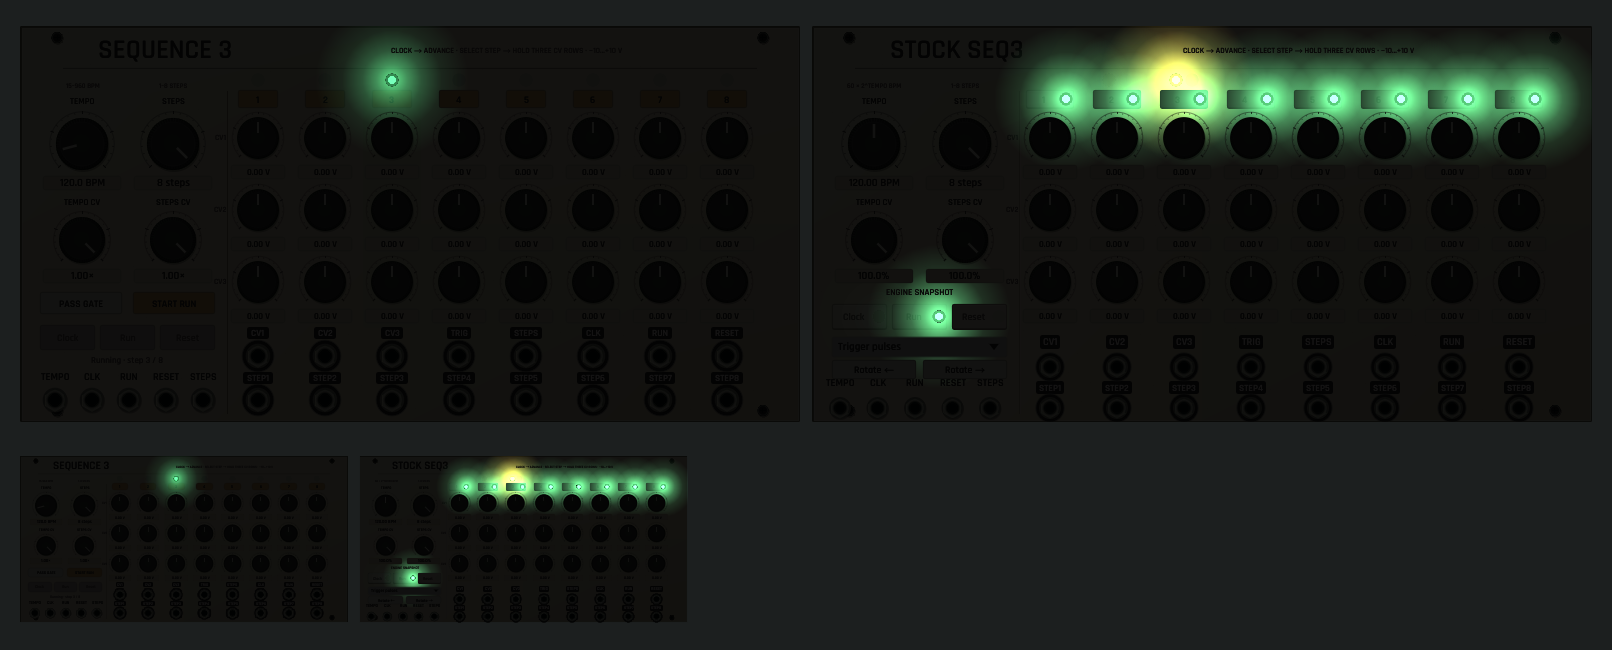
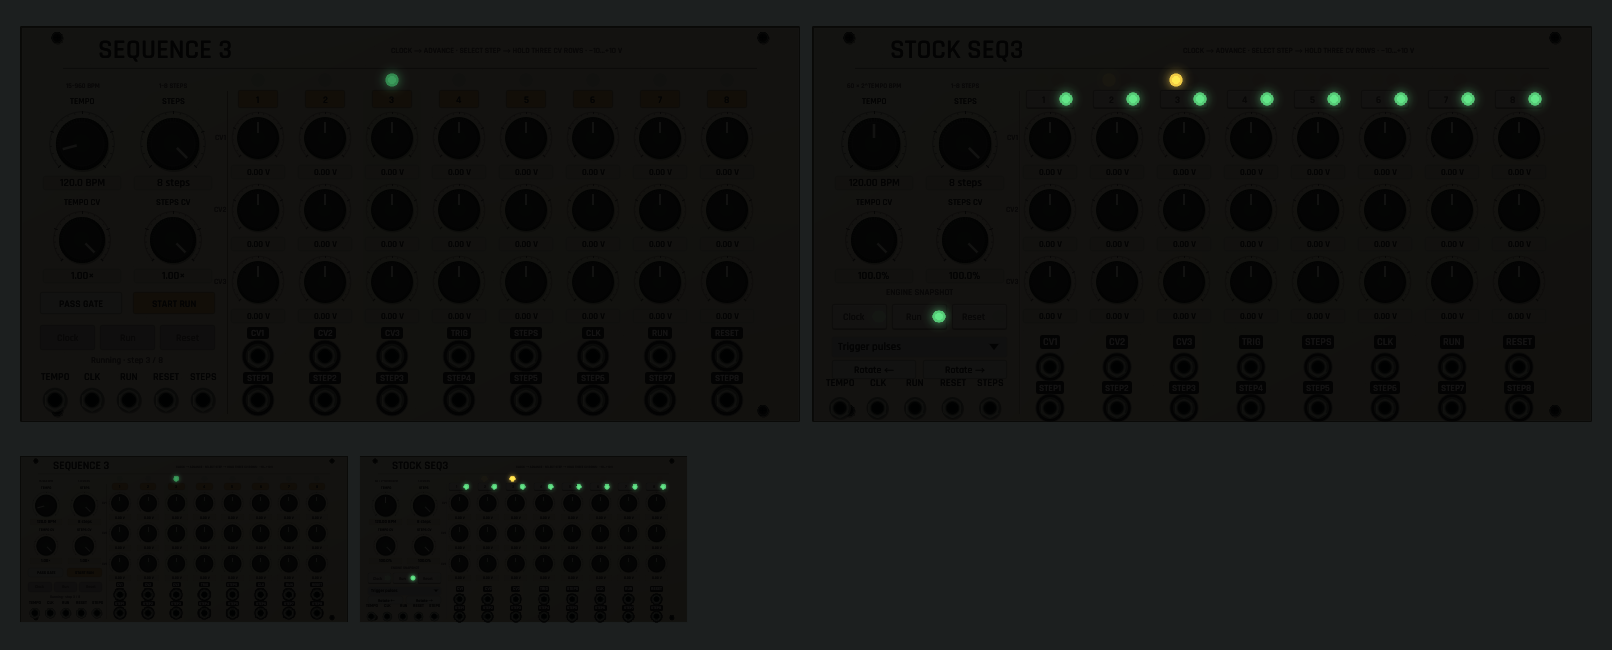
Restrain room lighting to softer local halos

diff --git a/crates/openpatch-desktop/src/lighting.rs b/crates/openpatch-desktop/src/lighting.rs
@@ -119,12 +119,12 @@ impl Default for RoomLighting {
 
 impl RoomLighting {
     fn bloom_amount(&self) -> f32 {
-        // Keep daytime lamps restrained; a dark room reveals their light spill.
-        0.38 + 2.62 * (1.0 - self.amount).powf(1.5)
+        // Darkness reveals a little spill; the lens remains the brightest part.
+        0.20 + 0.45 * (1.0 - self.amount).powf(1.5)
     }
 
     fn bloom_diffusion(&self) -> f32 {
-        1.0 + 1.15 * (1.0 - self.amount).powf(1.5)
+        0.24 + 0.12 * (1.0 - self.amount).powf(1.5)
     }
 
     /// Static display illumination, distinct from signal-driven lamps. The
@@ -137,8 +137,8 @@ impl RoomLighting {
             painter,
             rect,
             Color32::from_rgb(104, 155, 119),
-            0.035 + 0.30 * dark,
-            (1.5 + 3.5 * dark) * zoom / corner,
+            0.012 + 0.048 * dark,
+            (0.8 + 0.8 * dark) * zoom / corner,
         );
         self.preserve(painter, start);
     }
@@ -249,7 +249,7 @@ impl RoomLighting {
         );
         painter.circle_filled(center, radius, self.lens_color(original, strength, floor));
         if strength > 0.001 {
-            painter.circle_filled(center, radius * 0.58, additive(emitter, glow * 0.5));
+            painter.circle_filled(center, radius * 0.58, additive(emitter, glow * 0.25));
         }
         self.preserve(painter, start);
     }
@@ -272,7 +272,7 @@ impl RoomLighting {
         painter.circle_filled(
             center,
             radius * 0.58,
-            additive(color, self.bloom_amount() * 0.5),
+            additive(color, self.bloom_amount() * 0.25),
         );
         self.preserve(painter, start);
     }
@@ -457,8 +457,8 @@ mod tests {
                 assert_eq!(mesh.vertices.len(), 120);
                 assert!(mesh.vertices.iter().all(|v| v.color.a() == 0));
                 let bounds = mesh.calc_bounds();
-                assert!(bounds.width() <= size.x + 52.1);
-                assert!(bounds.height() <= size.y + 52.1);
+                assert!(bounds.width() <= size.x + 16.7);
+                assert!(bounds.height() <= size.y + 16.7);
                 energy.push(
                     mesh.vertices
                         .iter()
@@ -471,6 +471,38 @@ mod tests {
                 "room-off screen spill must stay visible"
             );
         }
+    }
+
+    #[test]
+    fn dark_room_led_spill_stays_local_and_keeps_additive_headroom() {
+        let ctx = egui::Context::default();
+        let mut lighting = RoomLighting::default();
+        lighting.set(0.0);
+        let output = ctx.run(egui::RawInput::default(), |ctx| {
+            let painter = ctx.layer_painter(egui::LayerId::background());
+            lighting.circle(&painter, Pos2::ZERO, 3.2, Color32::GREEN, 1.0, 0.12);
+        });
+        let mesh = output
+            .shapes
+            .iter()
+            .find_map(|s| {
+                if let egui::Shape::Mesh(m) = &s.shape {
+                    Some(m)
+                } else {
+                    None
+                }
+            })
+            .unwrap();
+        assert!(
+            mesh.calc_bounds().width() <= 40.0,
+            "spill must stay local on a dense 40-point lamp grid"
+        );
+        assert!(
+            mesh.vertices
+                .iter()
+                .all(|v| v.color.r().max(v.color.g()).max(v.color.b()) <= 85),
+            "halo must leave headroom instead of clipping into a neon cloud"
+        );
     }
 
     #[test]

diff --git a/docs/WORKPLAN.md b/docs/WORKPLAN.md
@@ -14,9 +14,9 @@ Now use one milestone branch, focused local checks, one PR CI run and one approp
 
 ### Lights-off refinement
 
-Active LEDs, ports and meters now cast wider, stronger additive halos as ambient light falls; the daytime lamp profile stays restrained. Detailed-panel displays gain a bounded soft green spill, and Studio Mixer position rings have broader additive glow. Static display illumination remains separate from engine-driven lamps; zero or unavailable signal does not create activity.
+The user rejected the broad, bright glow as unnatural. Lamp, port and meter halos now stay close to the emitter, with much lower additive energy and a softer center highlight. Screen spill is smaller and faint; mixer setting-ring spill uses the same restrained gain. Readable lens sizes, signal-dependent brightness, zero/missing-state darkness and cable occlusion remain intact.
 
-[Updated dim-room preview](../design/reviews/signal-atlas-two-modules-v1/native-ux-dark-room.png). **32 focused checks passed**, covering lighting, unchanged rack/browser geometry and cable targets, port signals, Studio Mixer behavior and eight oscillator acceptance fixtures corrected after the preceding CI run. Strict desktop Clippy and formatting passed. Actual-engine CPU captures were inspected at full, dim and zero ambient light; no native window/device or installed-release claim. The noise/stochastic design family resumes next.
+[Updated dim-room preview](../design/reviews/signal-atlas-two-modules-v1/native-sequencers-dark.png). **22 focused checks passed**, including actual lamp/port/meter emission, local spill/headroom bounds, zero/missing state, editor contrast, shared preview geometry and Studio Mixer behavior. Strict desktop Clippy and formatting passed. Light/dim CPU meshes from offline Core state were reviewed; no native window/device or new installation. The preceding sequencer checkpoint passed 1,148 headless desktop tests locally; full Mac CI remains separate.
 
 ### Noise and stochastic controls
 

diff --git a/design/reviews/signal-atlas-two-modules-v1/README.md b/design/reviews/signal-atlas-two-modules-v1/README.md
@@ -94,3 +94,7 @@ All widths/socket coordinates stay stable; captions and exact-entry targets clea
 [Sequence 3 and Stock SEQ3](native-sequencers.png), with [actual offline-engine snapshots in a dim room](native-sequencers-dark.png), bring the detailed pass to 46 modules. Each has 24 rotary voltage cells and four larger scalar controls, separate exact-entry wells and clear gate/row grouping. Main readouts remain readable in natural-size inspection. Source-specific state/clock semantics stay separate; Stock's header lamps show observed selection and excluded length, while its green gate lamps show actual enable state. Legacy saved-start switches remain distinct from runtime controls. No configured voltage is used to invent activity.
 
 All 38 editable construction controls on each sequencer have direct MCP anchors. Named sockets/coordinates, fast-click/hold/release semantics, revision guards and history remain intact. Preview controls emit no commands. The full headless desktop regression passed 1,148 checks, with final caption-only clearance rechecked separately. Strict Clippy and formatting passed. Shared light/dim CPU meshes were reviewed; no native-window/device or physical-hardware qualification is claimed. No DSP/reference change or installation; the stable app remains 0.2.6 build 8.
+
+## Restrained room lighting
+
+The latest [sequencer dark view](native-sequencers-dark.png) reflects the user's feedback that the previous glow looked too broad and unnatural. LED/port/meter spill is now local and low-energy, bright center highlights are softer, and static screen spill is smaller. Lens sizes and actual signal levels are preserved; zero/missing signals remain dark. Twenty-two focused checks and strict Clippy/formatting passed, including a guard against broad clipped halos on dense lamp grids. Earlier family captures document their historical lighting; the shared current renderer uses this restrained treatment. No new installation.

diff --git a/AGENTS.md b/AGENTS.md
@@ -7,6 +7,7 @@ Read this file and [docs/WORKPLAN.md](docs/WORKPLAN.md) first. Open only the sou
 - Keep the installed 0.2.6 build 8 stable until the user requests an upgrade or a substantial milestone is ready. Do not package, increment versions or install after every fix/module.
 - Validate macOS ARM only by default. Linux/Windows and throughput benchmarks are deferred to an explicitly requested full-platform milestone. MIDI and live performance remain last.
 - Work on one product milestone at a time. The user approved the ADSR/Ladder direction and resumed the goal with ‘continue’. Extend that design across the supported catalog in coherent layout families; forty-six panels now have detailed layouts, including stock utilities, mixers, studio effects, macro/drum voices, SVF, physical resonator, multi-voice/wavetable oscillators, noise/stochastic controls, capture/sequential routing, voltage processors, both quantizers and both eight-step sequencers; continue with Score Sequencer and the remaining utility families next. Preserve real units/routing, existing editing/MCP behavior and shared rack/browser rendering. Keep Stock Scope checkpointed until this design milestone is delivered; do not install a release automatically.
+- Lighting should use restrained, local halos. The user rejected broad, bright neon clouds; keep readable lenses, soft falloff and visible signal differences without washing the panel in light.
 - Each work item needs one user-visible outcome and a short done checklist. Avoid expanding acceptance into unrelated cleanup or exhaustive internal equivalence. Preserve existing frozen references and honest fidelity claims.
 - Do not touch user patches/settings or replace a running app. Preserve existing computer-use restrictions; headless validation does not establish a native device test.
 
